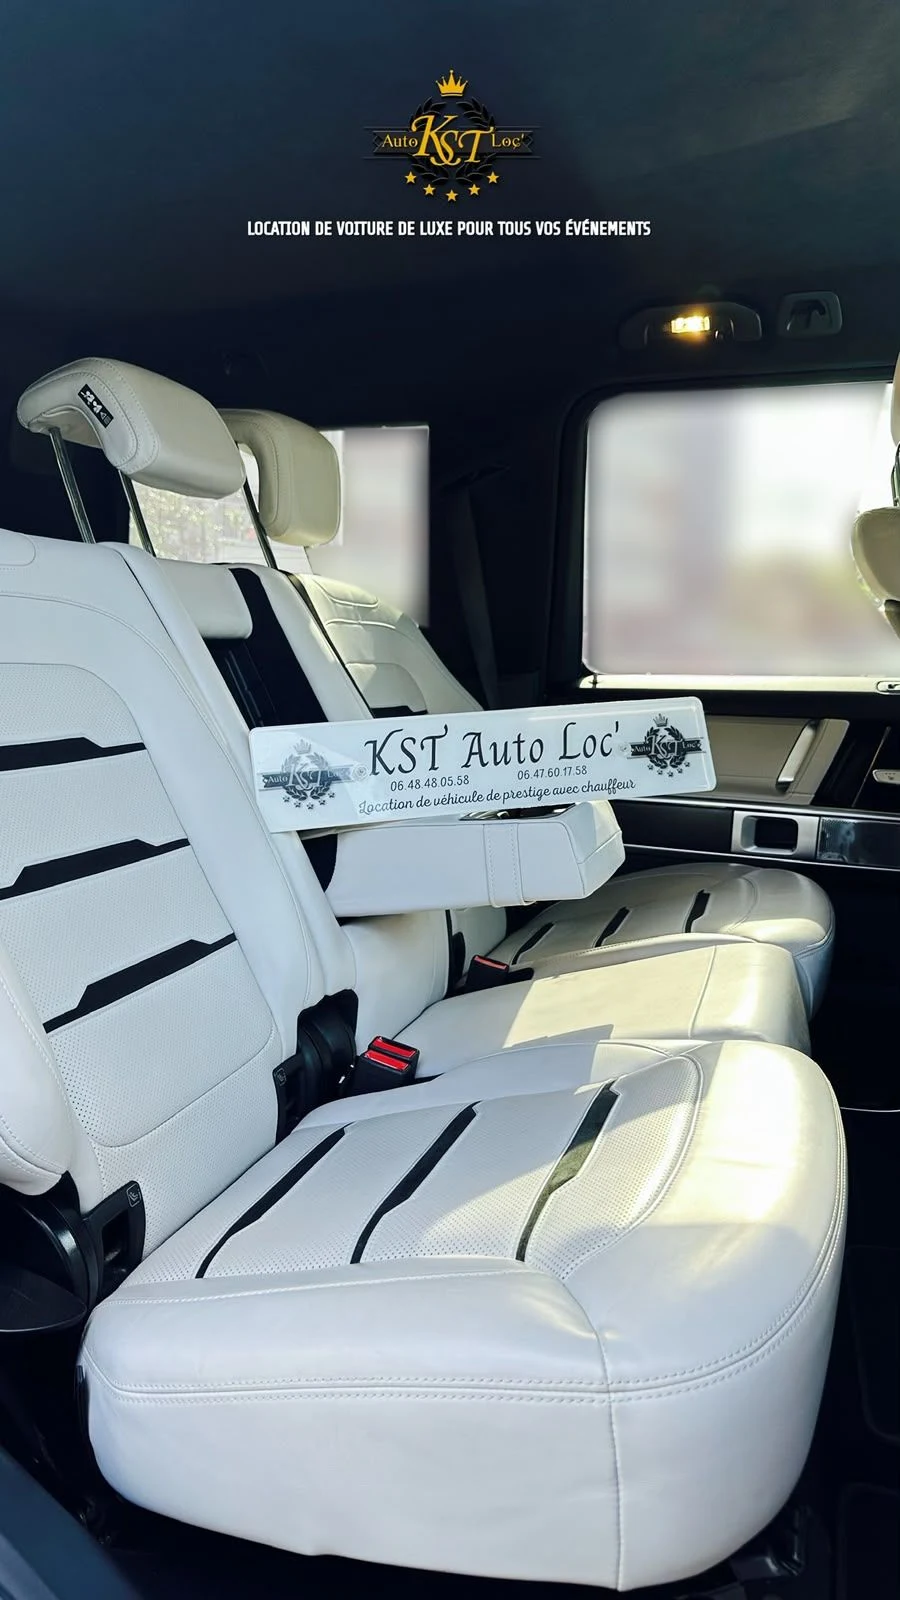
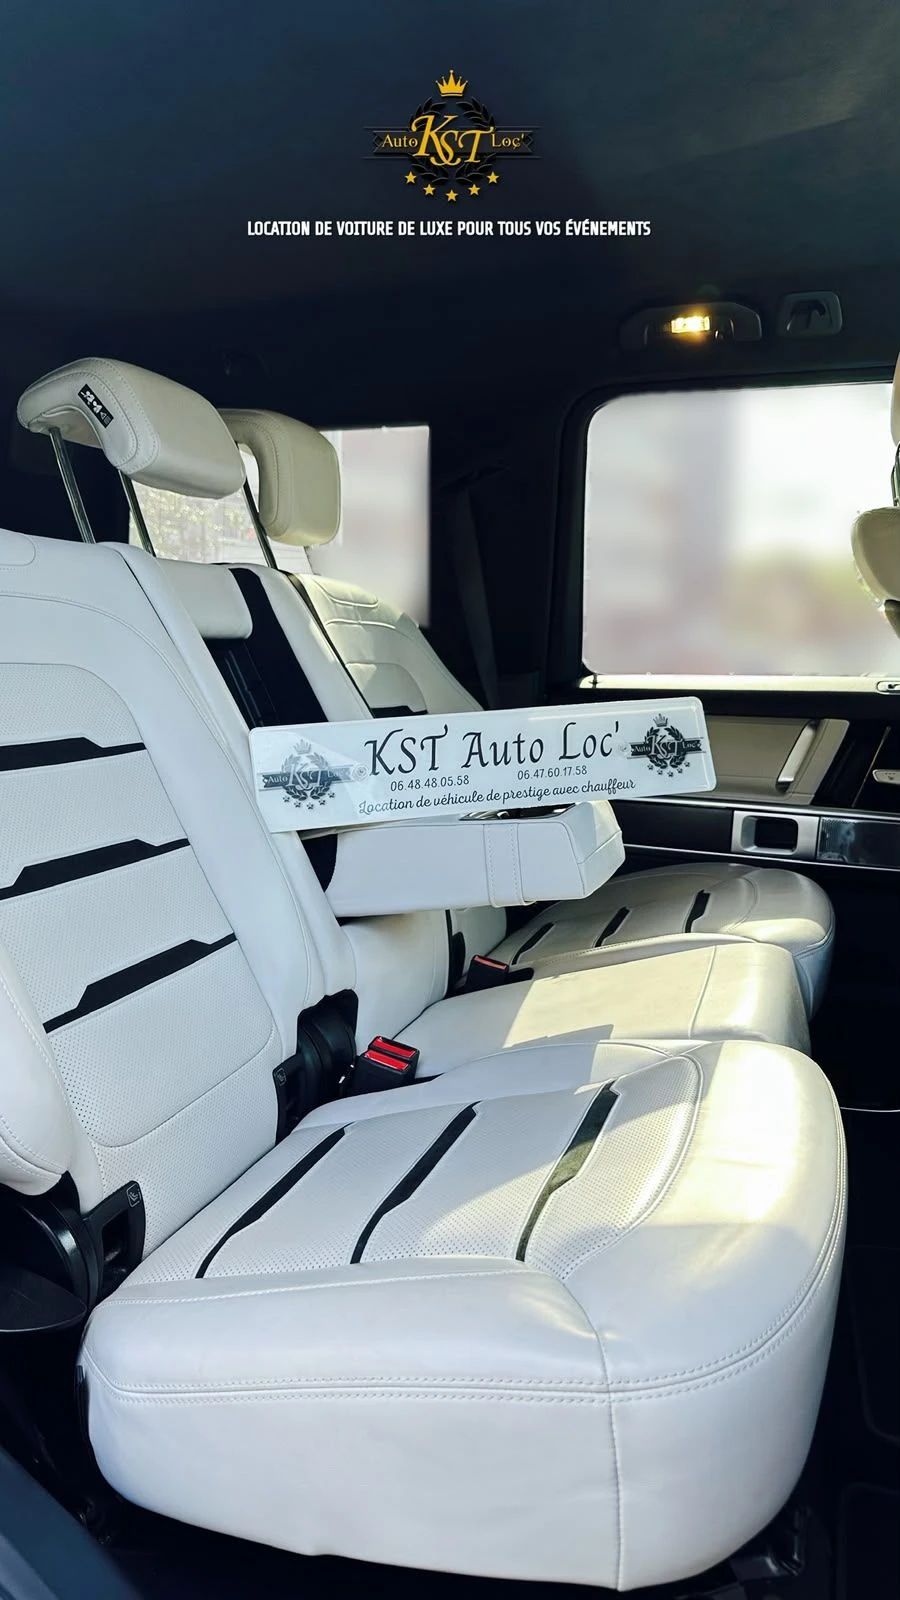
Retours client : splash plus rapide, intérieur en 2e photo, flou propre, mentions en blanc, message d'envoi
Splash ~2 s (au lieu de ~3,2 s), galerie de chaque véhicule : avant puis intérieur, vitres du Classe G
floutées proprement, mention « n photos » en blanc, confirmation « Votre demande a bien été envoyée ».

Changed region(s): [[0.6533, 0.2188, 0.9956, 0.4375], [0.3733, 0.25, 0.4978, 0.4062], [0.9333, 0.3125, 0.9644, 0.3438]]

diff --git a/index.html b/index.html
@@ -41,7 +41,7 @@
       }
     } catch (e) {}
   </script>
-  <link rel="stylesheet" href="assets/css/style.css?v=202610041825">
+  <link rel="stylesheet" href="assets/css/style.css?v=202610042159">
   <script>
     /* Les révélations au scroll ne s'activent que si app.js s'exécute ; sinon tout reste visible. */
     document.documentElement.classList.add('js');
@@ -398,8 +398,8 @@
             <script type="application/json" data-vehicle-json>
             {"id":"ghost","brand":"Rolls-Royce","brandKey":"rolls-royce","model":"Ghost","full":"Rolls-Royce Ghost","type":"Berline","pos":"50% 76%","images":[
               {"src":"assets/img/rolls-royce/ghost/image0.webp","w":1800,"h":1201,"alt":"Rolls-Royce Ghost blanche, vue avant sur une route de campagne"},
-              {"src":"assets/img/rolls-royce/ghost/image-2.webp","w":1800,"h":1201,"alt":"Rolls-Royce Ghost blanche, vue arrière"},
-              {"src":"assets/img/rolls-royce/ghost/image1.webp","w":1800,"h":1200,"alt":"Intérieur de la Rolls-Royce Ghost : banquette arrière en cuir rouge, bouteille de champagne et deux flûtes"}]}
+              {"src":"assets/img/rolls-royce/ghost/image1.webp","w":1800,"h":1200,"alt":"Intérieur de la Rolls-Royce Ghost : banquette arrière en cuir rouge, bouteille de champagne et deux flûtes"},
+              {"src":"assets/img/rolls-royce/ghost/image-2.webp","w":1800,"h":1201,"alt":"Rolls-Royce Ghost blanche, vue arrière"}]}
             </script>
             <div class="vcard__media" data-open-gallery>
               <img class="vcard__img" src="assets/img/rolls-royce/ghost/image0.webp" alt="Rolls-Royce Ghost blanche, vue avant sur une route de campagne" width="1800" height="1201" loading="lazy" decoding="async">
@@ -431,9 +431,9 @@
             <script type="application/json" data-vehicle-json>
             {"id":"classe-s","brand":"Mercedes","brandKey":"mercedes","model":"Classe S Maybach (Authentique)","full":"Mercedes Classe S Maybach (Authentique)","type":"","pos":"42% 50%","images":[
               {"src":"assets/img/mercedes/classe-s/classe-s-1.webp","w":1800,"h":884,"alt":"Mercedes Classe S Maybach bicolore blanc et noir, un bouquet de fleurs blanches sur le capot, vue avant trois-quarts"},
+              {"src":"assets/img/mercedes/classe-s/classe-s-2.webp","w":1512,"h":1801,"alt":"Intérieur de la Mercedes Classe S Maybach : sièges arrière en cuir matelassé gris"},
               {"src":"assets/img/mercedes/classe-s/classe-s-3.webp","w":1800,"h":1350,"alt":"Mercedes Classe S Maybach, vue arrière trois-quarts sur un chemin de gravier"},
-              {"src":"assets/img/mercedes/classe-s/classe-s-4.webp","w":1280,"h":565,"alt":"Mercedes Classe S Maybach blanc et noir, vue de côté, fleurs blanches sur le capot devant un escalier de pierre"},
-              {"src":"assets/img/mercedes/classe-s/classe-s-2.webp","w":1512,"h":1801,"alt":"Intérieur de la Mercedes Classe S Maybach : sièges arrière en cuir matelassé gris"}]}
+              {"src":"assets/img/mercedes/classe-s/classe-s-4.webp","w":1280,"h":565,"alt":"Mercedes Classe S Maybach blanc et noir, vue de côté, fleurs blanches sur le capot devant un escalier de pierre"}]}
             </script>
             <div class="vcard__media" data-open-gallery>
               <img class="vcard__img" src="assets/img/mercedes/classe-s/classe-s-1.webp" alt="Mercedes Classe S Maybach bicolore blanc et noir, un bouquet de fleurs blanches sur le capot, vue avant trois-quarts" width="1800" height="884" loading="lazy" decoding="async">
@@ -464,14 +464,14 @@
             <script type="application/json" data-vehicle-json>
             {"id":"classe-g","brand":"Mercedes","brandKey":"mercedes","model":"Classe G 6.3 AMG (Authentique)","full":"Mercedes Classe G 6.3 AMG (Authentique)","type":"","pos":"62% 58%","images":[
               {"src":"assets/img/mercedes/classe-g/classe-g-3.webp","w":890,"h":571,"alt":"Mercedes Classe G blanche décorée d'un bouquet de fleurs rouges et blanches, vue avant trois-quarts"},
+              {"src":"assets/img/mercedes/classe-g/classe-g-5.webp","w":900,"h":1600,"alt":"Intérieur de la Mercedes Classe G : banquette arrière en cuir blanc et noir et accoudoir central"},
               {"src":"assets/img/mercedes/classe-g/classe-g-1.webp","w":864,"h":713,"alt":"Mercedes Classe G blanche, vue de face, phares allumés"},
               {"src":"assets/img/mercedes/classe-g/classe-g-2.webp","w":1800,"h":795,"alt":"Mercedes Classe G blanche aux jantes noires, vue de profil"},
-              {"src":"assets/img/mercedes/classe-g/classe-g-4.webp","w":1536,"h":1024,"alt":"Mercedes Classe G blanche, vue arrière trois-quarts avec roue de secours"},
-              {"src":"assets/img/mercedes/classe-g/classe-g-5.webp","w":900,"h":1600,"alt":"Intérieur de la Mercedes Classe G : banquette arrière en cuir blanc et noir et accoudoir central"}]}
+              {"src":"assets/img/mercedes/classe-g/classe-g-4.webp","w":1536,"h":1024,"alt":"Mercedes Classe G blanche, vue arrière trois-quarts avec roue de secours"}]}
             </script>
             <div class="vcard__media" data-open-gallery>
               <img class="vcard__img" src="assets/img/mercedes/classe-g/classe-g-3.webp" alt="Mercedes Classe G blanche décorée d'un bouquet de fleurs rouges et blanches, vue avant trois-quarts" width="890" height="571" loading="lazy" decoding="async">
-              <img class="vcard__img vcard__img--alt" src="assets/img/mercedes/classe-g/classe-g-5.webp" alt="" aria-hidden="true" width="900" height="1600" style="--pos-alt:50% 56%" loading="lazy" decoding="async">
+              <img class="vcard__img vcard__img--alt" src="assets/img/mercedes/classe-g/classe-g-5.webp" alt="" aria-hidden="true" width="900" height="1600" style="--pos-alt:50% 44%" loading="lazy" decoding="async">
               <span class="vcard__num" aria-hidden="true">03</span>
               <span class="vcard__badge" aria-hidden="true"><svg class="ico"><use href="#i-check"/></svg>Dans ma demande</span>
               <span class="vcard__photos" aria-hidden="true">5 photos</span>
@@ -498,8 +498,8 @@
             <script type="application/json" data-vehicle-json>
             {"id":"gle","brand":"Mercedes","brandKey":"mercedes","model":"GLE Coupé 4.3 AMG","full":"Mercedes GLE Coupé 4.3 AMG","type":"SUV","pos":"56% 50%","images":[
               {"src":"assets/img/mercedes/gle/gle-coupe-amg.webp","w":1800,"h":795,"alt":"Mercedes GLE Coupé 4.3 AMG blanc décoré de fleurs rouges et blanches, vue avant trois-quarts"},
-              {"src":"assets/img/mercedes/gle/image6.webp","w":1800,"h":1350,"alt":"Mercedes GLE Coupé 4.3 AMG blanc avec un bouquet de roses roses et blanches sur le capot, vue avant"},
               {"src":"assets/img/mercedes/gle/image7.webp","w":1800,"h":1350,"alt":"Intérieur cuir noir du Mercedes GLE Coupé 4.3 AMG : banquette arrière et accoudoir central"},
+              {"src":"assets/img/mercedes/gle/image6.webp","w":1800,"h":1350,"alt":"Mercedes GLE Coupé 4.3 AMG blanc avec un bouquet de roses roses et blanches sur le capot, vue avant"},
               {"src":"assets/img/mercedes/gle/image8.webp","w":1800,"h":1350,"alt":"Mercedes GLE Coupé 4.3 AMG blanc, vue arrière trois-quarts"}]}
             </script>
             <div class="vcard__media" data-open-gallery>
@@ -531,8 +531,8 @@
             <script type="application/json" data-vehicle-json>
             {"id":"cayenne","brand":"Porsche","brandKey":"porsche","model":"Cayenne Coupé","full":"Porsche Cayenne Coupé","type":"SUV","pos":"46% 50%","images":[
               {"src":"assets/img/porsche/cayenne.webp","w":1800,"h":795,"alt":"Porsche Cayenne Coupé blanc décoré de fleurs roses et blanches, vue avant trois-quarts"},
-              {"src":"assets/img/porsche/image3.webp","w":1800,"h":1201,"alt":"Porsche Cayenne Coupé blanc, vue de profil devant un champ"},
               {"src":"assets/img/porsche/image4.webp","w":1800,"h":1350,"alt":"Intérieur cuir noir du Porsche Cayenne Coupé : banquette arrière, accoudoir et bouteilles d'eau"},
+              {"src":"assets/img/porsche/image3.webp","w":1800,"h":1201,"alt":"Porsche Cayenne Coupé blanc, vue de profil devant un champ"},
               {"src":"assets/img/porsche/image5.webp","w":1800,"h":1411,"alt":"Porsche Cayenne Coupé blanc, vue arrière trois-quarts"}]}
             </script>
             <div class="vcard__media" data-open-gallery>
@@ -564,8 +564,8 @@
             <script type="application/json" data-vehicle-json>
             {"id":"ghibli","brand":"Maserati","brandKey":"maserati","model":"Ghibli","full":"Maserati Ghibli","type":"Berline","pos":"68% 50%","images":[
               {"src":"assets/img/maserati/ghbli/ghibli.webp","w":1800,"h":795,"alt":"Maserati Ghibli blanche décorée de fleurs rouges et blanches, vue avant trois-quarts sur une place"},
-              {"src":"assets/img/maserati/ghbli/image0.webp","w":1800,"h":1350,"alt":"Maserati Ghibli blanche avec un bouquet de roses rouges et blanches sur le capot, vue avant devant un champ"},
               {"src":"assets/img/maserati/ghbli/image1.webp","w":1800,"h":1350,"alt":"Intérieur en cuir brun de la Maserati Ghibli : banquette arrière et accoudoir central"},
+              {"src":"assets/img/maserati/ghbli/image0.webp","w":1800,"h":1350,"alt":"Maserati Ghibli blanche avec un bouquet de roses rouges et blanches sur le capot, vue avant devant un champ"},
               {"src":"assets/img/maserati/ghbli/image2.webp","w":1800,"h":1350,"alt":"Maserati Ghibli blanche, vue arrière trois-quarts"}]}
             </script>
             <div class="vcard__media" data-open-gallery>
@@ -597,8 +597,8 @@
             <script type="application/json" data-vehicle-json>
             {"id":"classe-c","brand":"Mercedes","brandKey":"mercedes","model":"Classe C","full":"Mercedes Classe C","type":"Berline","pos":"50% 55%","images":[
               {"src":"assets/img/mercedes/classe-c/classe-c.webp","w":1800,"h":795,"alt":"Mercedes Classe C blanche décorée d'un bouquet de fleurs rouges et blanches, vue avant au crépuscule"},
-              {"src":"assets/img/mercedes/classe-c/image3.webp","w":1800,"h":1350,"alt":"Mercedes Classe C blanche, vue avant trois-quarts devant un champ"},
               {"src":"assets/img/mercedes/classe-c/image4.webp","w":1800,"h":1350,"alt":"Intérieur cuir noir de la Mercedes Classe C : banquette arrière et accoudoir central"},
+              {"src":"assets/img/mercedes/classe-c/image3.webp","w":1800,"h":1350,"alt":"Mercedes Classe C blanche, vue avant trois-quarts devant un champ"},
               {"src":"assets/img/mercedes/classe-c/image5.webp","w":1800,"h":1350,"alt":"Mercedes Classe C blanche, vue arrière trois-quarts"}]}
             </script>
             <div class="vcard__media" data-open-gallery>
@@ -1157,6 +1157,6 @@
     <p class="noscript">Le formulaire de devis nécessite JavaScript. Appelez-nous au <a href="tel:+33648480558">06.48.48.05.58</a> ou écrivez à <a href="mailto:contact@kstautoloc.fr">contact@kstautoloc.fr</a>.</p>
   </noscript>
 
-  <script src="assets/js/app.js?v=202610041825" defer></script>
+  <script src="assets/js/app.js?v=202610042159" defer></script>
 </body>
 </html>

diff --git a/assets/css/style.css b/assets/css/style.css
@@ -3146,3 +3146,31 @@ html.is-splash .splash { background: #f4efe6; }
   40%  { filter: grayscale(0) sepia(0) brightness(1.3) drop-shadow(0 0 12px rgba(232, 170, 40, .95)); transform: scale(1.22); }
   100% { filter: grayscale(0) sepia(0) brightness(1) drop-shadow(0 0 0 rgba(232, 170, 40, 0)); transform: scale(1); }
 }
+
+/* ==========================================================================
+   Splash plus rapide (≈ 2,3 s au lieu de 3,2 s) : logo, étoiles et rideaux enchaînés plus vite
+   ========================================================================== */
+html.is-splash .splash { animation-delay: 2.15s; }
+.splash-logo { animation-duration: .5s; animation-delay: .05s; }
+.splash-tagline { animation-duration: .55s; animation-delay: .4s; }
+.splash-star { animation-duration: .32s; }
+.splash-star:nth-child(2) { animation-delay: .34s; }
+.splash-star:nth-child(3) { animation-delay: .41s; }
+.splash-star:nth-child(4) { animation-delay: .48s; }
+.splash-star:nth-child(5) { animation-delay: .55s; }
+.splash-star:nth-child(6) { animation-delay: .62s; }
+.splash-panel::after { animation-delay: 1.2s; }
+.splash-panel--top, .splash-panel--bottom { animation-duration: .6s; animation-delay: 1.4s; }
+.splash-stage { animation-delay: 1.35s; }
+html.is-splash .hero__eyebrow { animation-delay: 1.65s; }
+html.is-splash .hero__title .line:nth-child(1) > span { animation-delay: 1.75s; }
+html.is-splash .hero__title .line:nth-child(2) > span { animation-delay: 1.89s; }
+html.is-splash .hero__title .line:nth-child(3) > span { animation-delay: 2.03s; }
+html.is-splash .hero__title em { animation-delay: 3.2s; }
+
+/* Mention « n photos » des cartes véhicules : en blanc, lisible sur toutes les photos */
+.vcard .vcard__photos {
+  color: #fff;
+  font-weight: 500;
+  text-shadow: 0 1px 8px rgba(0, 0, 0, .75), 0 0 2px rgba(0, 0, 0, .5);
+}

diff --git a/assets/js/app.js b/assets/js/app.js
@@ -70,7 +70,7 @@
     if (door) door.addEventListener('animationend', e => {
       if (e.animationName === 'splash-open-down') finish();
     });
-    setTimeout(finish, 3400);
+    setTimeout(finish, 2600);
   })();
 
   const storage = {
@@ -1420,11 +1420,11 @@
     calViewFromState();
     render();
     showResult({
-      title: 'Votre demande est envoyée',
-      text: 'Merci. Votre demande a bien été transmise à KST Auto Loc’. Sous réserve de disponibilité, confirmée par KST Auto Loc’.',
+      title: 'Votre demande a bien été envoyée',
+      text: 'Merci de votre confiance : KST Auto Loc’ a bien reçu votre demande et vous recontacte au plus vite pour établir votre devis. Sous réserve de disponibilité.',
       buttons: BTN.fresh + BTN.call
     });
-    announce('Votre demande a bien été envoyée.');
+    announce('Votre demande a bien été envoyée. KST Auto Loc vous recontacte au plus vite.');
   }
 
   function viaMailto(d) {

diff --git a/mentions-legales.html b/mentions-legales.html
@@ -15,7 +15,7 @@
   <link rel="preconnect" href="https://fonts.googleapis.com">
   <link rel="preconnect" href="https://fonts.gstatic.com" crossorigin>
   <link rel="stylesheet" href="https://fonts.googleapis.com/css2?family=Cormorant+Garamond:ital,wght@0,400;0,500;0,600;1,400;1,500&family=Jost:wght@300;400;500&display=swap">
-  <link rel="stylesheet" href="assets/css/style.css?v=202610041825">
+  <link rel="stylesheet" href="assets/css/style.css?v=202610042159">
 </head>
 <body>
   <a class="skip" href="#contenu">Aller au contenu</a>
